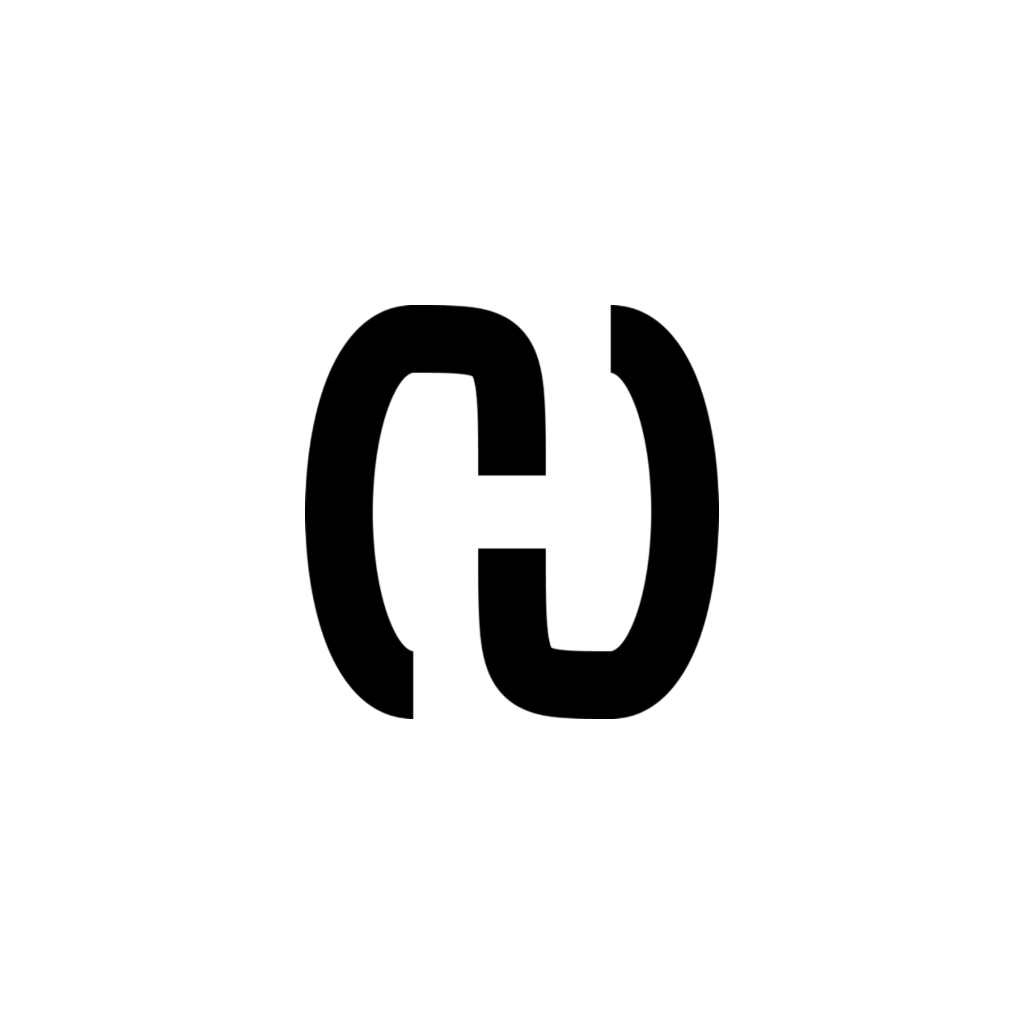
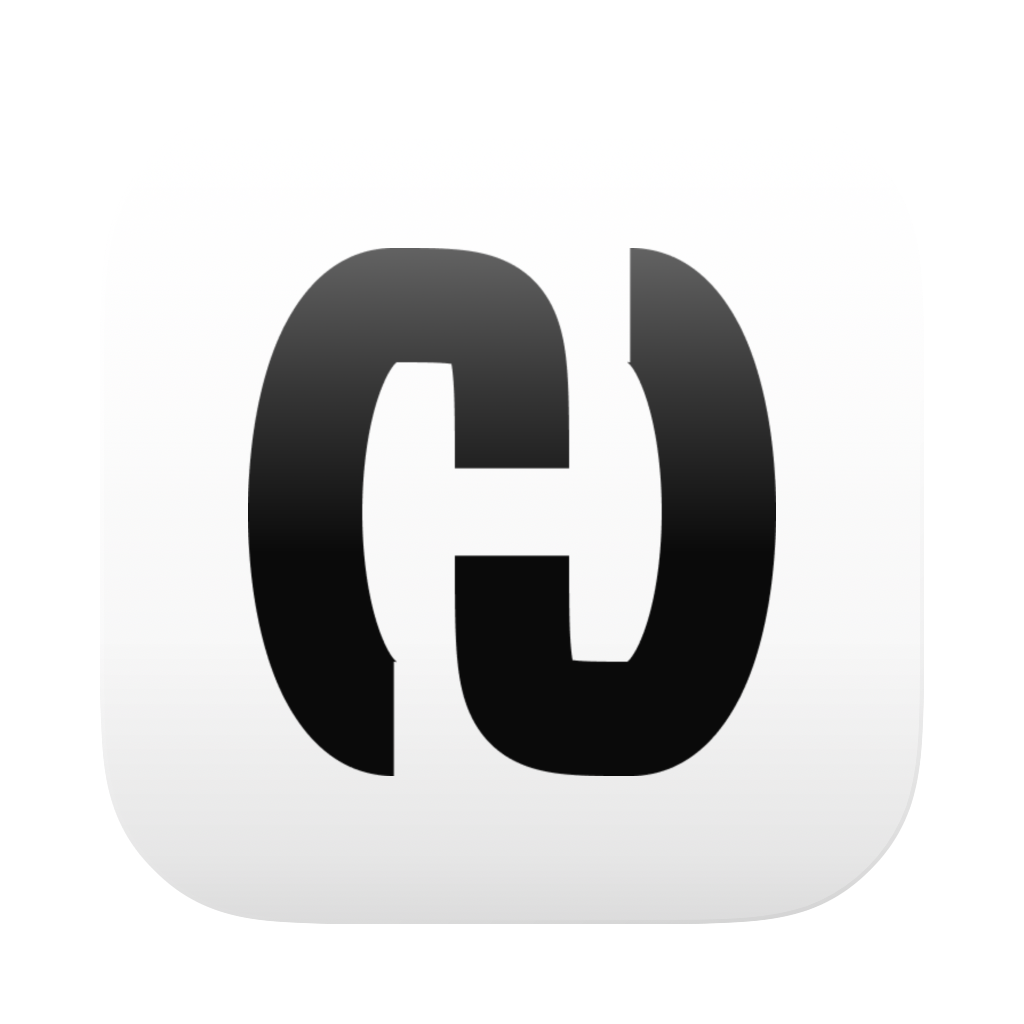
release: 0.1.4
Bumps MARKETING_VERSION (auto-sync regenerates web/lib/version.ts so
the landing page points at Hark-0.1.4.dmg) and refreshes
web/public/hark-icon.png with the new glass squircle so the hero
image matches the shipped app icon.

DMG notarized + stapled by Apple, uploaded to dl.tellhark.com/Hark-0.1.4.dmg
and dl.tellhark.com/latest.dmg.

diff --git a/web/lib/version.ts b/web/lib/version.ts
@@ -3,6 +3,6 @@
 // MARKETING_VERSION from `../macos/project.yml`. Keeping this as the
 // only place the version is referenced in the web app prevents the
 // landing page from drifting from the actual shipped DMG.
-export const VERSION_NUM = "0.1.3";
+export const VERSION_NUM = "0.1.4";
 export const VERSION = `v${VERSION_NUM}`;
 export const DOWNLOAD_URL = `https://dl.tellhark.com/Hark-${VERSION_NUM}.dmg`;
